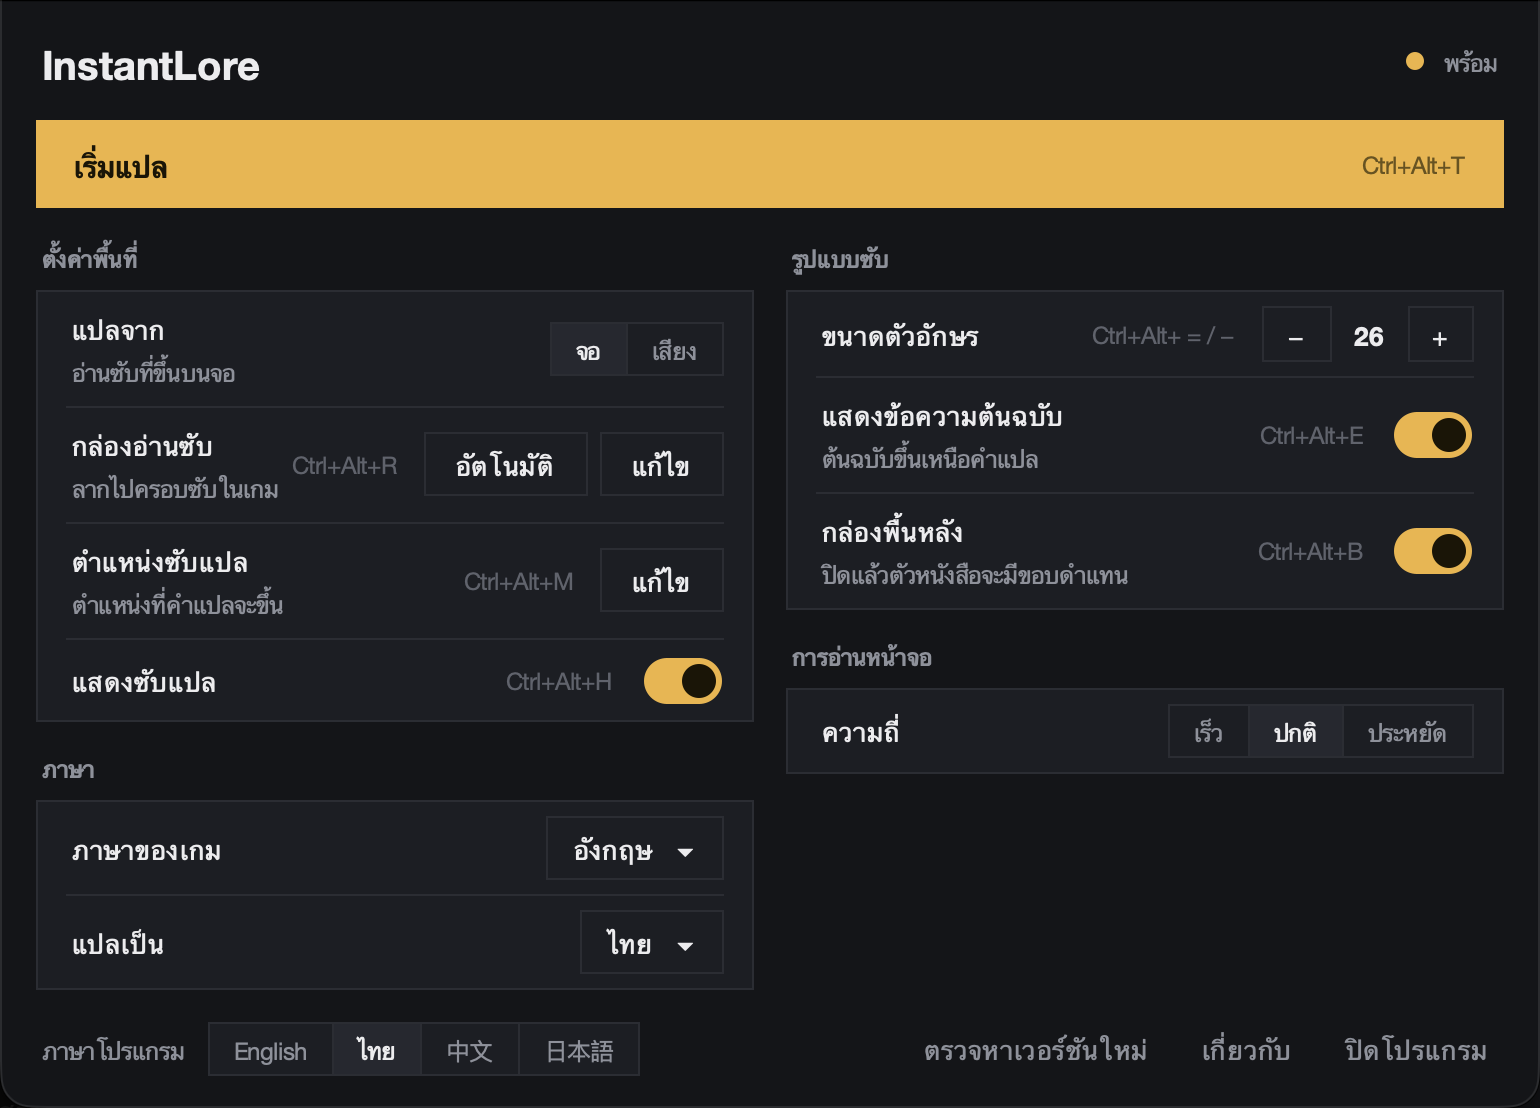
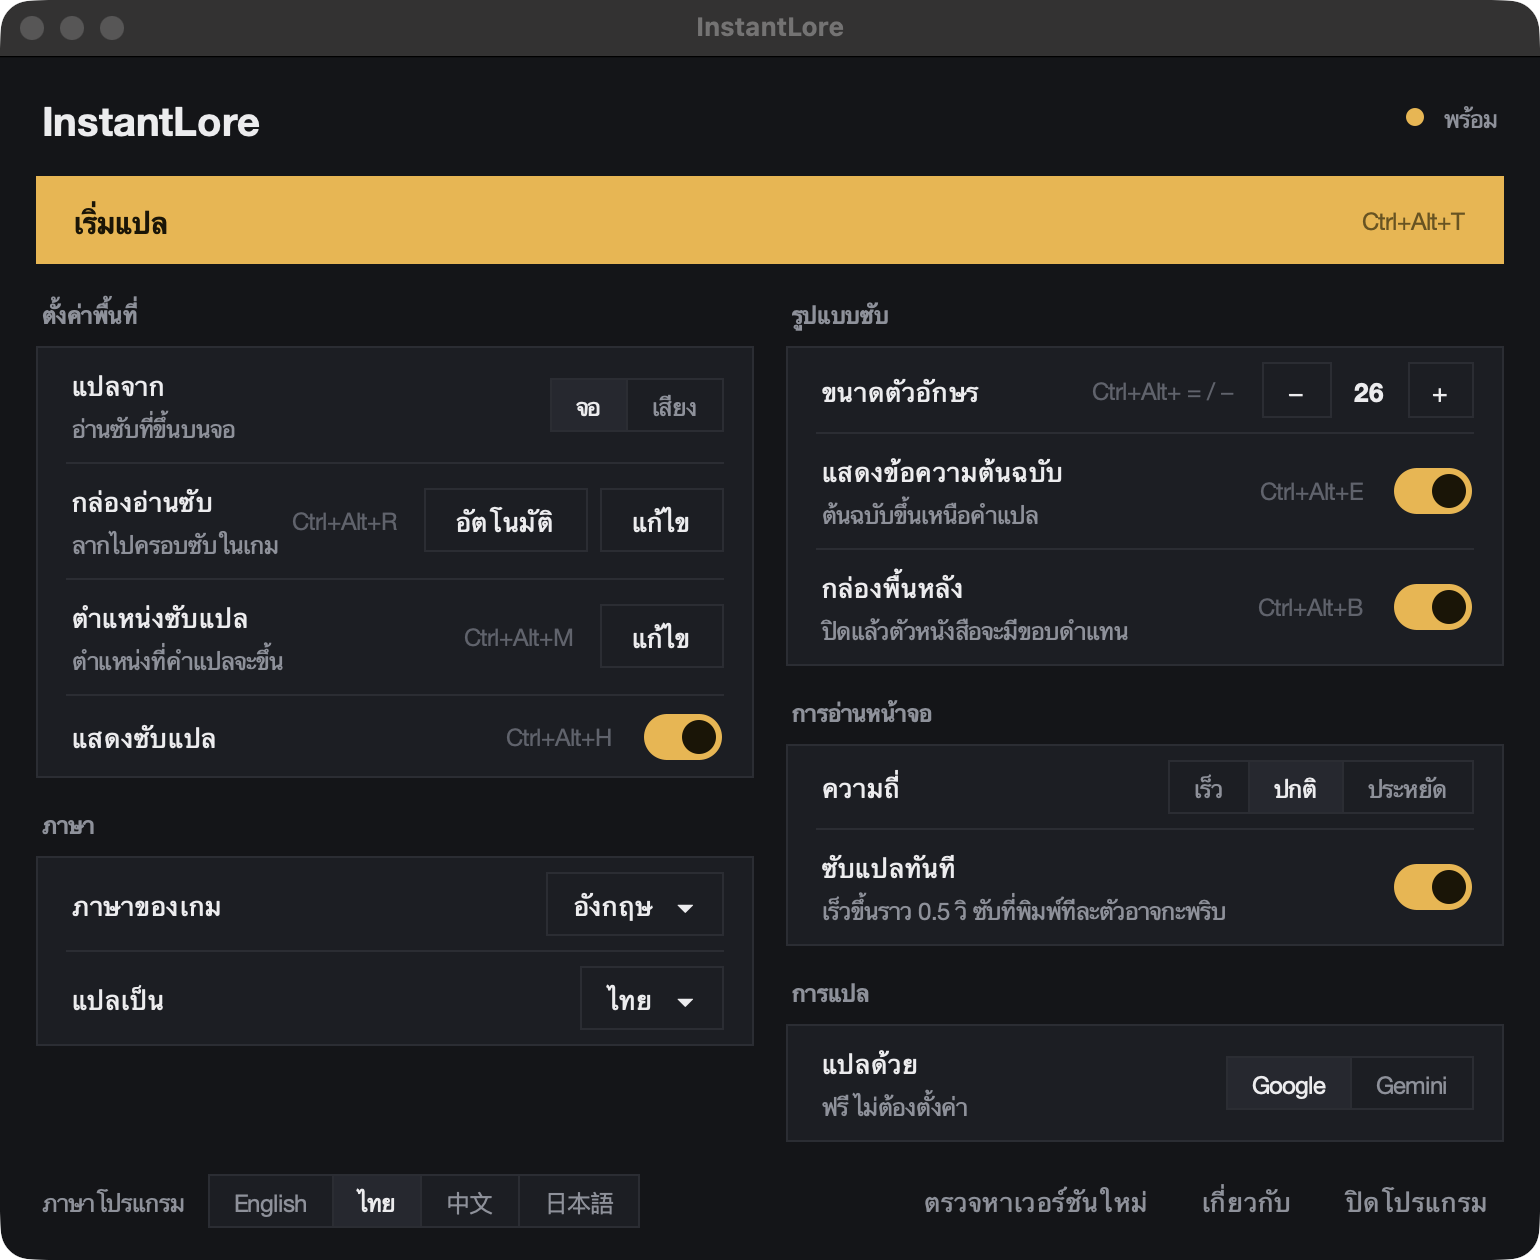
License holder Mongkol Kijroongviriya; Thai PS5 guide
- LICENSE and README: copyright Mongkol Kijroongviriya
- docs/PS5-guide-th.md: step-by-step guide for playing PS5 through
  PS Remote Play with InstantLore and Gemini, linked from the README

diff --git a/docs/PS5-guide-th.md b/docs/PS5-guide-th.md
@@ -1,0 +1,101 @@
+# เล่นเกม PS5 พร้อมซับไทยด้วย InstantLore
+
+คู่มือนี้ทำให้เล่นเกม PS5 บนทีวีได้ตามปกติ แต่มี**ซับไทยขึ้นทับเกมเอง** ไม่ต้องถือมือถือถ่ายแล้วถามทีละประโยค
+
+```
+PS5 ──(เน็ตบ้าน)──> คอม/โน้ตบุ๊ก ──(สาย HDMI)──> ทีวี
+                     Remote Play + InstantLore
+                          ↑
+                     จอย PS5 (สาย USB)
+```
+
+หลักการ: PS5 ส่งภาพเกมมาที่คอมผ่านแอป **PS Remote Play** แล้ว **InstantLore** อ่านซับจากภาพนั้นแปลเป็นไทย จากนั้นคอมส่งภาพทั้งหมด (เกม + ซับไทย) ขึ้นทีวี
+
+---
+
+## ต้องมีอะไรบ้าง
+
+- **คอมหรือโน้ตบุ๊ก Windows 10/11** (ถ้ามีแต่ Mac ก็ใช้ได้ แต่บางฟีเจอร์ เช่น Gemini มีเฉพาะ Windows)
+- **สาย HDMI** ต่อคอมเข้าทีวี (ถ้าเล่นบนจอคอมเลยก็ไม่ต้องใช้)
+- **สาย USB-C** ต่อจอย PS5 เข้าคอม
+- **เน็ตบ้าน** ถ้าเป็นไปได้ให้ต่อ**สาย LAN** ทั้ง PS5 และคอม จะลื่นกว่า WiFi มาก
+- **บัญชี PSN** ที่ใช้บน PS5 อยู่แล้ว
+- **บัญชี Google** สำหรับขอ key ฟรีของ Gemini (ทำให้แปลดีกว่า Google Translate)
+
+---
+
+## ตอนที่ 1: ตั้งค่า PS5 (ทำครั้งเดียว)
+
+1. ที่ PS5 ไปที่ **Settings → System → Remote Play** แล้วเปิด **Enable Remote Play**
+2. ไปที่ **Settings → System → Power Saving → Features Available in Rest Mode**
+   แล้วเปิด **Stay Connected to the Internet** และ **Enable Turning On PS5 from Network**
+   (เพื่อให้คอมเปิด PS5 จากโหมดพักได้เอง)
+
+## ตอนที่ 2: ลง PS Remote Play บนคอม (ทำครั้งเดียว)
+
+1. ค้นหา **"PS Remote Play"** ในเว็บ playstation.com แล้วดาวน์โหลดตัวสำหรับ Windows
+2. ติดตั้งแล้ว login ด้วยบัญชี PSN เดียวกับ PS5
+3. เสียบจอย PS5 เข้าคอมด้วยสาย USB
+4. กดเชื่อมต่อ PS5 รอสักครู่ ภาพเกมจะขึ้นบนคอม
+5. กดขยายหน้าต่าง Remote Play ให้**เต็มจอ**
+
+## ตอนที่ 3: ลง InstantLore (ทำครั้งเดียว)
+
+1. ดาวน์โหลด `InstantLore-x.y.z-windows-x64.exe` จาก [หน้า Releases](https://github.com/soulrose/instantlore/releases/latest)
+2. ดับเบิลคลิกเปิด ถ้า Windows ขึ้นว่า "Windows protected your PC" ให้กด **More info → Run anyway**
+3. ถ้าโปรแกรมเป็นภาษาอังกฤษ กดเปลี่ยนเป็น **ไทย** ได้ที่มุมซ้ายล่าง (ภาษาโปรแกรม)
+4. ครั้งแรกโปรแกรมจะดาวน์โหลดตัวอ่านตัวหนังสือขนาดเล็ก ต้องต่อเน็ตไว้
+
+![หน้าตา InstantLore](screenshot-th.png)
+
+## ตอนที่ 4: ใช้ Gemini ให้แปลดีขึ้น (ทำครั้งเดียว แนะนำมาก)
+
+1. ที่หัวข้อ **การแปล → แปลด้วย** กด **Gemini** หน้าต่างใส่ key จะขึ้นมาเอง
+2. กด **รับ key ฟรี** เว็บ Google AI Studio จะเปิดขึ้นมา ให้ login ด้วยบัญชี Google
+3. กด **Create API key** แล้วกดคัดลอก key (ไม่ต้องผูกบัตร)
+4. กลับมาที่ InstantLore วาง key ในช่อง กด **ทดสอบ** ถ้าขึ้นว่า "ใช้ได้" ก็กด **บันทึก**
+
+![ใส่ key ของ Gemini](gemini-key-th.png)
+
+> ถ้า Gemini ใช้ไม่ได้ชั่วคราว (เช่น โควตาฟรีหมด) โปรแกรมจะใช้ Google Translate แทนเองอัตโนมัติ ไม่ค้าง
+
+## ตอนที่ 5: ตั้งตำแหน่งซับ (ทำครั้งเดียวต่อเกม)
+
+1. เปิดเกมใน Remote Play แล้วเล่นไปจนมี**ซับขึ้น**บนจอ
+2. กด **Ctrl+Alt+A** (หรือปุ่ม **อัตโนมัติ** ในโปรแกรม) โปรแกรมจะดูจอประมาณ 5 วินาที แล้ววางกล่องสีเหลืองครอบซับให้เอง
+3. ถ้ากล่องอยู่ถูกที่แล้ว กด **Ctrl+Alt+R** เพื่อจบ
+4. ถ้าอยากย้ายตำแหน่งซับไทย กด **Ctrl+Alt+M** แล้วลากกล่องสีเขียวไปตรงที่ชอบ จากนั้นกด **Ctrl+Alt+M** อีกครั้ง
+
+> ถ้าเมาส์ถูกเกมจับไว้ ใช้ **Ctrl+Alt+ลูกศร** เลื่อนกล่องแทนได้ และ **Ctrl+Alt+Shift+ลูกศร** ปรับขนาด
+
+## ตอนที่ 6: เล่นเกม
+
+กด **Ctrl+Alt+T** (หรือปุ่ม **เริ่มแปล**) แล้วเล่นได้เลย ซับไทยจะขึ้นทุกครั้งที่ซับในเกมเปลี่ยน และหายไปเองเมื่อซับในเกมหายไป
+
+**ครั้งต่อไป** ทำแค่: เปิด Remote Play → เปิด InstantLore → กด Ctrl+Alt+T
+
+---
+
+## ตั้งค่าเพิ่มที่ช่วยได้
+
+| อยากได้ | ทำแบบนี้ |
+|---|---|
+| ซับไทยขึ้นเร็วขึ้น | เปิด **ซับแปลทันที** และตั้ง **ความถี่ → เร็ว** |
+| ตัวหนังสือใหญ่/เล็กลง | **Ctrl+Alt+=** / **Ctrl+Alt+-** |
+| ไม่อยากเห็นภาษาอังกฤษด้านบน | ปิด **แสดงข้อความต้นฉบับ** (Ctrl+Alt+E) |
+| ไม่อยากให้มีกล่องดำ | ปิด **กล่องพื้นหลัง** (Ctrl+Alt+B) ตัวหนังสือจะมีขอบดำแทน |
+| เกมที่**ไม่มีซับ** | ตั้ง **แปลจาก → เสียง** (ต้องเป็น Windows 11) โปรแกรมจะฟังเสียงพูดแล้วแปล |
+| อ่านซับในเกมได้แม่นขึ้น | เปิด**พื้นหลังซับ** (Subtitle background) ในตั้งค่าของเกม |
+
+## เจอปัญหา
+
+| ปัญหา | ทางแก้ |
+|---|---|
+| ภาพ Remote Play กระตุก | ต่อสาย LAN ทั้ง PS5 และคอม หรือลดความละเอียดในตั้งค่าของ Remote Play |
+| ซับไทยไม่ขึ้นเลย | ดูข้อความที่มุมขวาบนของ InstantLore ว่าบอกอะไร และอย่าย่อหน้าต่าง Remote Play |
+| กด Ctrl+Alt+A แล้วไม่เจอซับ | ต้องมีซับขึ้นอยู่บนจอตอนกด หรือกด **แก้ไข** แล้วลากกล่องเอง |
+| ปุ่มลัดกดไม่ติดตอนอยู่ในเกม | คลิกขวาที่ InstantLore แล้วเลือก **Run as administrator** |
+| แปลแปลกๆ | ใช้ Gemini (ตอนที่ 4) และให้กล่องสีเหลืองครอบแค่ซับ ไม่ครอบ HUD อื่น |
+| เกมแข่ง/ยิงรู้สึกหน่วง | Remote Play จะช้ากว่าเล่นตรงนิดหน่อย เหมาะกับเกมเนื้อเรื่องมากกว่า |
+
+> ก่อนทั้งหมดนี้ ลองเช็กก่อนว่าเกมมี**ซับไทย**ในตัวไหม (ดูในเมนูภาษาของเกม) หลายเกมบน PS5 มีให้แล้ว

diff --git a/README.md b/README.md
@@ -45,6 +45,10 @@ The first launch needs an internet connection to download a small text-recogniti
 
 To update, click **Check for updates** at the bottom of the window (Mac: **Check for Updates…** in the menu). If a newer version is out, InstantLore opens its download page.
 
+## Playing on PS5
+
+InstantLore runs on a computer, so for PS5 games stream the console to a PC with Sony's free **PS Remote Play** app, run InstantLore on top, and connect the PC to the TV. Step-by-step guide in Thai: [docs/PS5-guide-th.md](docs/PS5-guide-th.md).
+
 ## Quick start
 
 1. Start the game and wait for a subtitle to appear.
@@ -196,7 +200,7 @@ cd mac && ./build.sh && open InstantLore.app
 
 ## License
 
-InstantLore is released under the [MIT License](LICENSE). © 2026 Soulrose
+InstantLore is released under the [MIT License](LICENSE). © 2026 Mongkol Kijroongviriya
 
 The Windows build bundles third-party libraries under their own licenses: RapidOCR and its PP-OCR models (Apache-2.0), ONNX Runtime (MIT), uiautomation (Apache-2.0), mss (MIT), keyboard (MIT) and NumPy (BSD-3-Clause).
 
